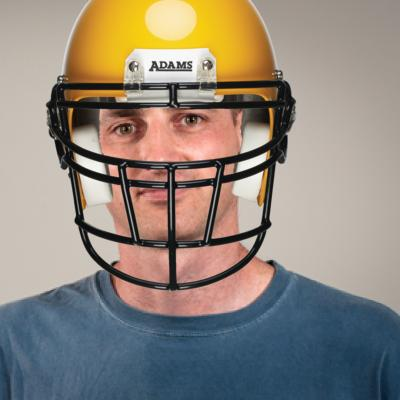
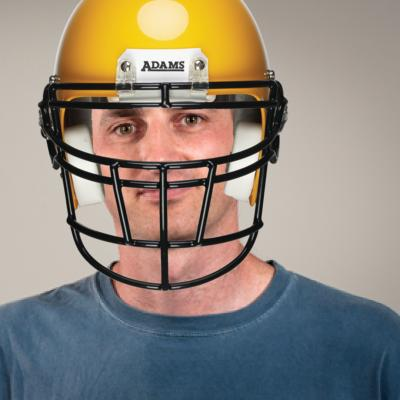
shell version working in one cmd

Changed region(s): [[0.09, 0.0, 0.75, 0.75]]

diff --git a/index.js b/index.js
@@ -5,51 +5,39 @@ var path = require('path');
 var _ = require('underscore');
 var Faced = require('faced');
 var faced = new Faced();
+var exec = require('child_process').exec
 var fs = require('fs')
   , gm = require('gm');
-
+var helmetImg = 'images/helmet-large-transparent.png';
 
 function worker(faces, image, file) {
-    var output, colors = {
-        "face": [0, 0, 0],
-        "mouth": [255, 0, 0],
-        "nose": [255, 255, 255],
-        "eyeLeft": [0, 0, 255],
-        "eyeRight": [0, 255, 0]
-    };
-
     if (!faces) {
         console.error("Could not open %s", file);
         return;
     }
-
+    var command = [];
+    command.push('convert', file);//beginning of the command
     _.each(faces, function (face) {
         var faceWidth = face.getWidth();
         var faceHeight = face.getHeight();
-        gm('images/helmet-large-transparent.png')
-          .resize(faceWidth*1.8, faceHeight*1.8)
-          .write('/tmp/helmet-resized.png', function (err) {
-            if (err){
-              console.log(err)
-            } else {
-              var offsetX = face.getX() - faceWidth*0.15;
-              var offsetY = face.getY() - faceHeight*0.5;
-              gm(file)
-              .composite('/tmp/helmet-resized.png')
-              .geometry('+'+offsetX+'+'+offsetY)
-              .write('images/composite.jpg', function(err) {
-                if(err) {
-                  console.log(err)
-                } else {
-                  console.log("Written composite image.");
-                }
-              });
-            }
-          });
+        var offsetX = face.getX() - faceWidth*0.19;
+        var offsetY = face.getY() - faceHeight*0.5;
+        var helmetWidth = faceWidth*1.8;
+        var helmetHeight = faceHeight*1.8;
+        var geometry = helmetWidth+'x'+helmetHeight+'+'+offsetX+'+'+offsetY;
+        //convert images/adam.jpg \
+        //images/helmet-large-transparent.png -geometry 64x64+128+128 -composite \
+        //images/helmet-large-transparent.png -geometry 128x128+256+256 -composite \
+        //images/helmet-large-transparent.png -geometry 256x256+100+400 -composite \
+        //output.jpg
+        command.push(helmetImg, '-geometry', geometry, '-composite');//push face composites onto command
+        console.log('found face, added to array')
+    });//end each face
+    command.push('-resize','\'768>\'','-quality','75','images/composite.jpg'); //tail end of command
+    exec(command.join(' '), function(err, stdout, stderr) {
+      if (err) console.log(err);
     });
 }
-
 _.each(process.argv.slice(2), function (file) {
     faced.detect(path.resolve(file), worker);
-
 });

diff --git a/express.js b/express.js
@@ -1,0 +1,60 @@
+var express = require('express');
+var app = express();
+var gm = require('gm');
+var path = require('path');
+var _ = require('underscore');
+var Faced = require('faced');
+var faced = new Faced();
+var fs = require('fs');
+
+
+  function worker(faces, image, file) {
+      if (!faces) {
+          console.error("Could not open %s", file);
+          return;
+      }
+      _.each(faces, function (face) {
+          var faceWidth = face.getWidth();
+          var faceHeight = face.getHeight();
+          gm('images/helmet-large-transparent.png')
+            .resize(faceWidth*1.8, faceHeight*1.8)
+            .write('/tmp/helmet-resized.png', function (err) {
+              if (err){
+                console.log(err)
+              } else {
+                var offsetX = face.getX() - faceWidth*0.15;
+                var offsetY = face.getY() - faceHeight*0.5;
+                gm(file)
+                .composite('/tmp/helmet-resized.png')
+                .geometry('+'+offsetX+'+'+offsetY)
+                .write('images/composite.jpg', function(err) {
+                  if(err) {
+                    console.log(err)
+                  } else {
+                    console.log("Written composite image.");
+                  }
+                });
+              }
+          gm(req.files['profile-picture']['path'], 'img.jpg')
+            .resize("100^", "100^")
+            .gravity('Center')
+            .crop(100, 100)
+            .stream(function (err, stdout, stderr) {
+       // do whatever you want with your output stream (stdout) here
+    });
+            });//end gm block
+      });//end each
+  }
+
+app.get('/', function(req, res, next){
+
+  gm('images/classphoto.jpg')
+      .resize(50,50)
+      .stream(function streamOut (err, stdout, stderr) {
+          if (err) return next(err);
+          stdout.pipe(res); //pipe to response
+          stdout.on('error', next);
+  });
+});
+
+app.listen(8080);
